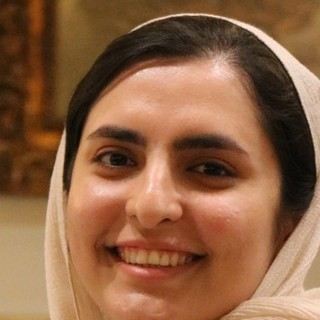
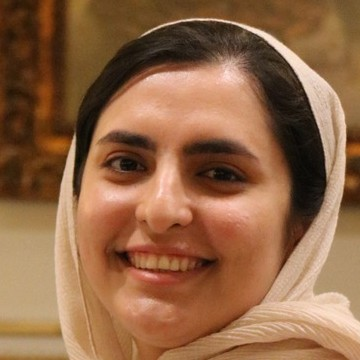
Loosen photo crop, fix eyebrow copy, add life to the hero background
- Re-crop the portrait with more breathing room around the face — the
  previous crop was too tight/zoomed
- Eyebrow now reads 'Product designer' (was missing the -er)
- Hero felt too empty: add two soft, blurred color washes behind the
  content (pulling from the cs1/cs2 case-study accents, so the palette
  stays consistent), and bump up the name/photo/paragraph sizing a bit
  for more presence

Claude-Session: https://claude.ai/code/session_01PSTQLsnLsa1ZJPBnqwhEMA

diff --git a/assets/css/styles.css b/assets/css/styles.css
@@ -222,11 +222,40 @@ nav a[aria-current="page"]{
 
 /* ---------- hero (home) ---------- */
 .hero{
+  position: relative;
   padding-top: clamp(52px, 9vw, 108px);
   padding-bottom: clamp(48px, 8vw, 88px);
   display:grid;
   grid-template-columns: 1fr;
   gap: 28px;
+}
+/* Soft, blurred color washes so the hero doesn't read as an empty page —
+   pulls from the same palette as the case-study accents, low-key. */
+.hero-decor{
+  position:absolute;
+  inset: 0;
+  overflow: hidden;
+  z-index: -1;
+  pointer-events: none;
+}
+.hero-decor::before,
+.hero-decor::after{
+  content:'';
+  position:absolute;
+  border-radius:50%;
+  filter: blur(70px);
+}
+.hero-decor::before{
+  width: 320px; height: 320px;
+  background: var(--cs1-accent-soft);
+  top: 20px;
+  right: 8%;
+}
+.hero-decor::after{
+  width: 280px; height: 280px;
+  background: var(--cs2-accent-soft);
+  bottom: -40px;
+  left: 20%;
 }
 .eyebrow{
   font-family: var(--sans);
@@ -242,7 +271,7 @@ nav a[aria-current="page"]{
   gap: 20px;
 }
 .hero-photo{
-  width: 88px; height: 88px;
+  width: 100px; height: 100px;
   border-radius: 50%;
   object-fit: cover;
   object-position: 50% 35%;
@@ -253,10 +282,10 @@ nav a[aria-current="page"]{
 .hero-name{
   font-family: var(--serif);
   font-weight: 400;
-  font-size: clamp(26px, 3.6vw, 42px);
+  font-size: clamp(32px, 4.4vw, 52px);
   line-height: 1.15;
   letter-spacing: -0.01em;
-  margin: 6px 0 0 0;
+  margin: 8px 0 0 0;
 }
 .hero-sub{
   display:grid;
@@ -265,7 +294,7 @@ nav a[aria-current="page"]{
   max-width: 640px;
 }
 .hero-sub p{
-  font-size: 17px;
+  font-size: 18px;
   color: var(--ink-soft);
   margin: 0;
   max-width: 56ch;

diff --git a/index.html b/index.html
@@ -38,10 +38,11 @@
   <main id="top">
 
     <section class="hero wrap">
+      <div class="hero-decor" aria-hidden="true"></div>
       <div class="hero-identity reveal">
-        <img class="hero-photo" src="./assets/images/fatemeh.jpg" alt="Fatemeh Jalali" width="88" height="88">
+        <img class="hero-photo" src="./assets/images/fatemeh.jpg" alt="Fatemeh Jalali" width="100" height="100">
         <div>
-          <div class="eyebrow">Product design</div>
+          <div class="eyebrow">Product designer</div>
           <h1 class="hero-name">Fatemeh Jalali</h1>
         </div>
       </div>
